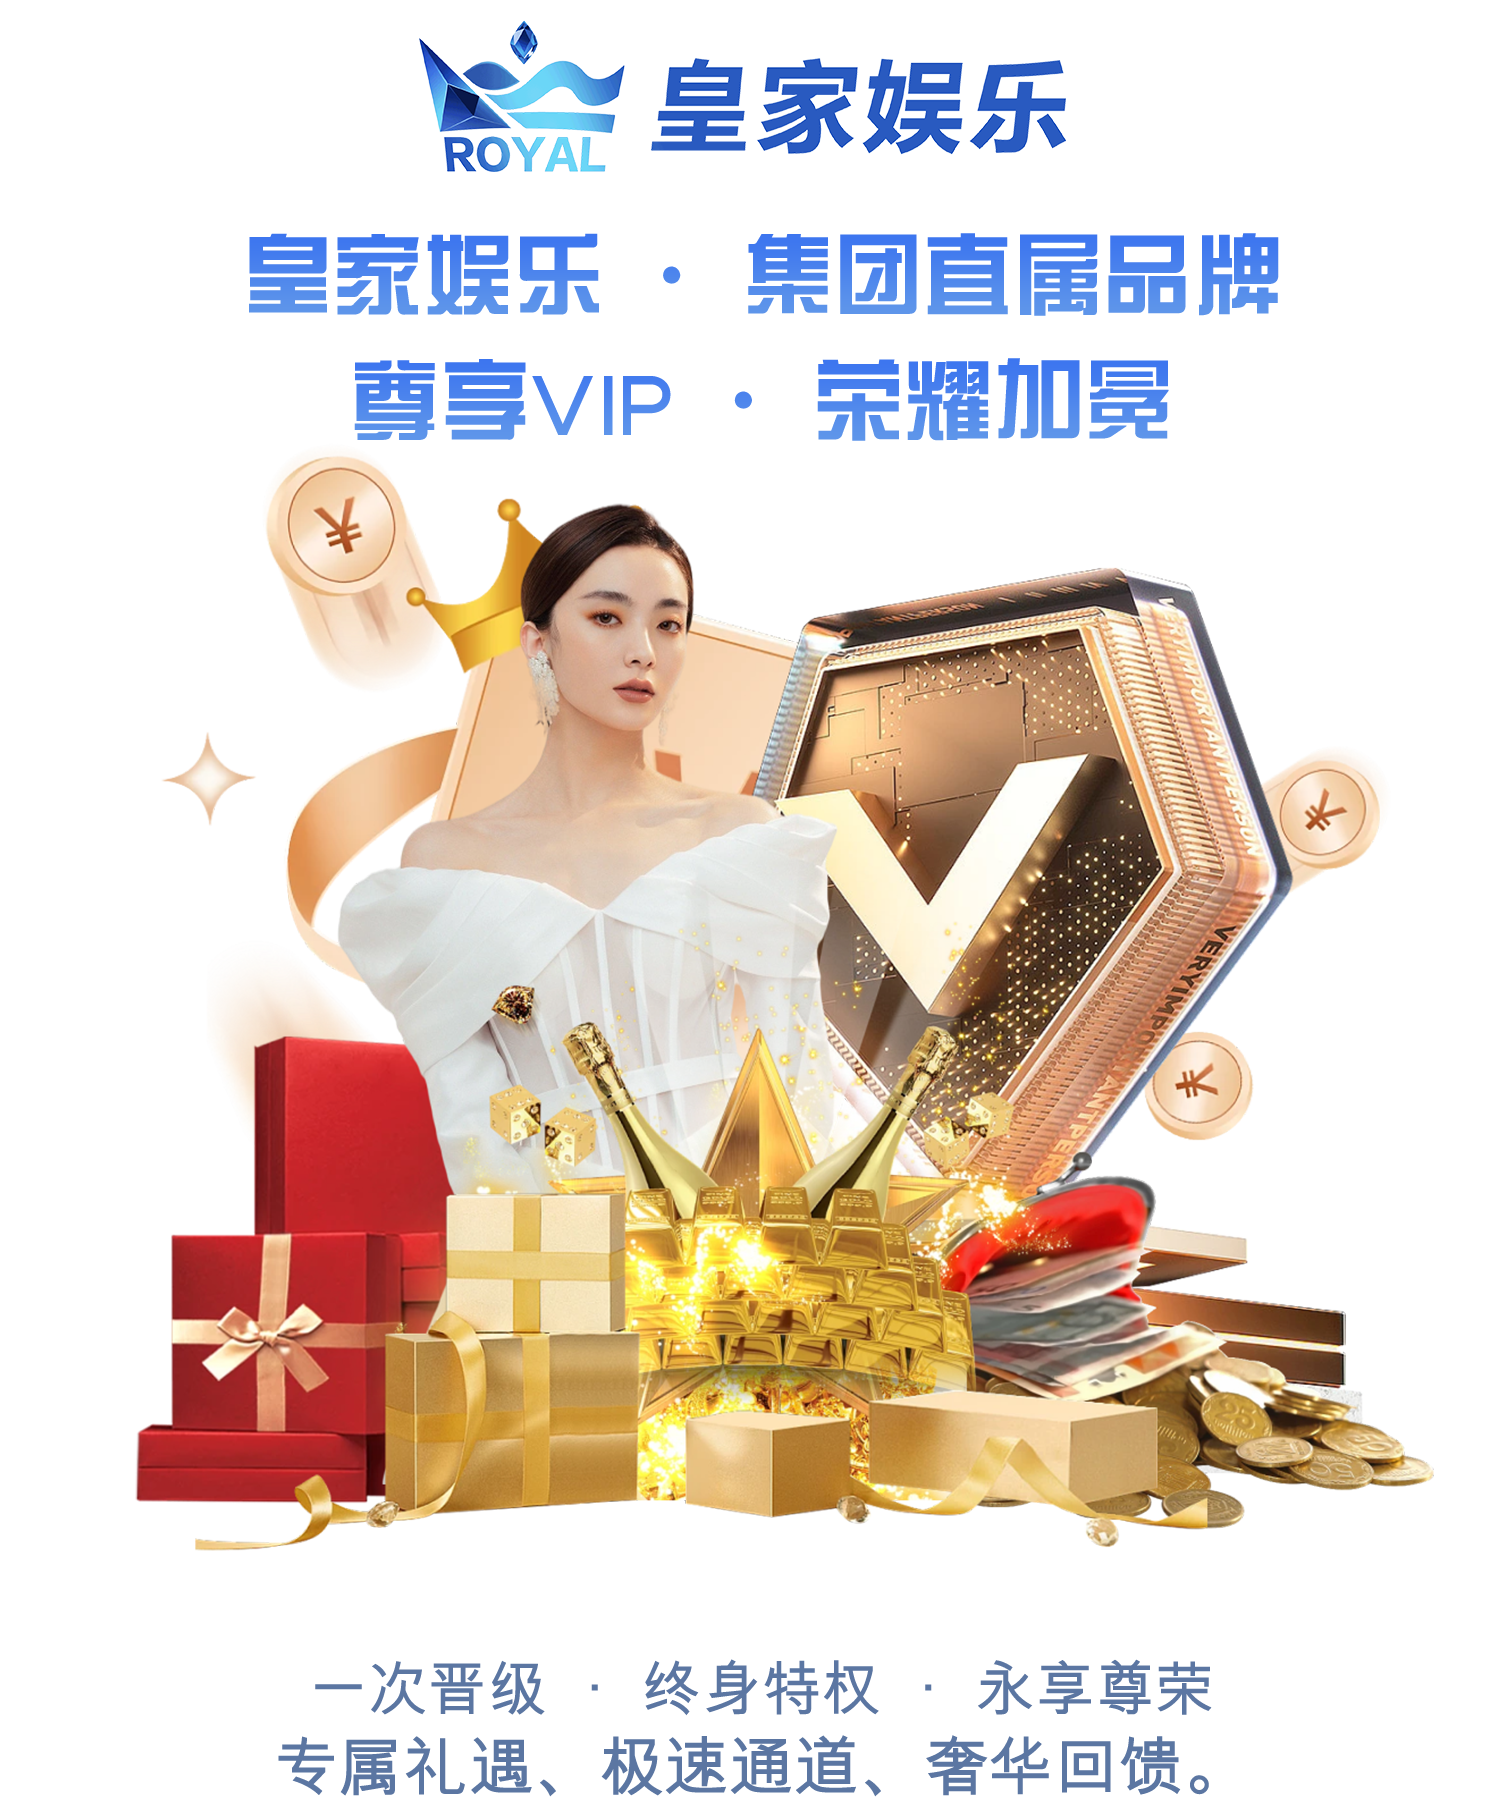
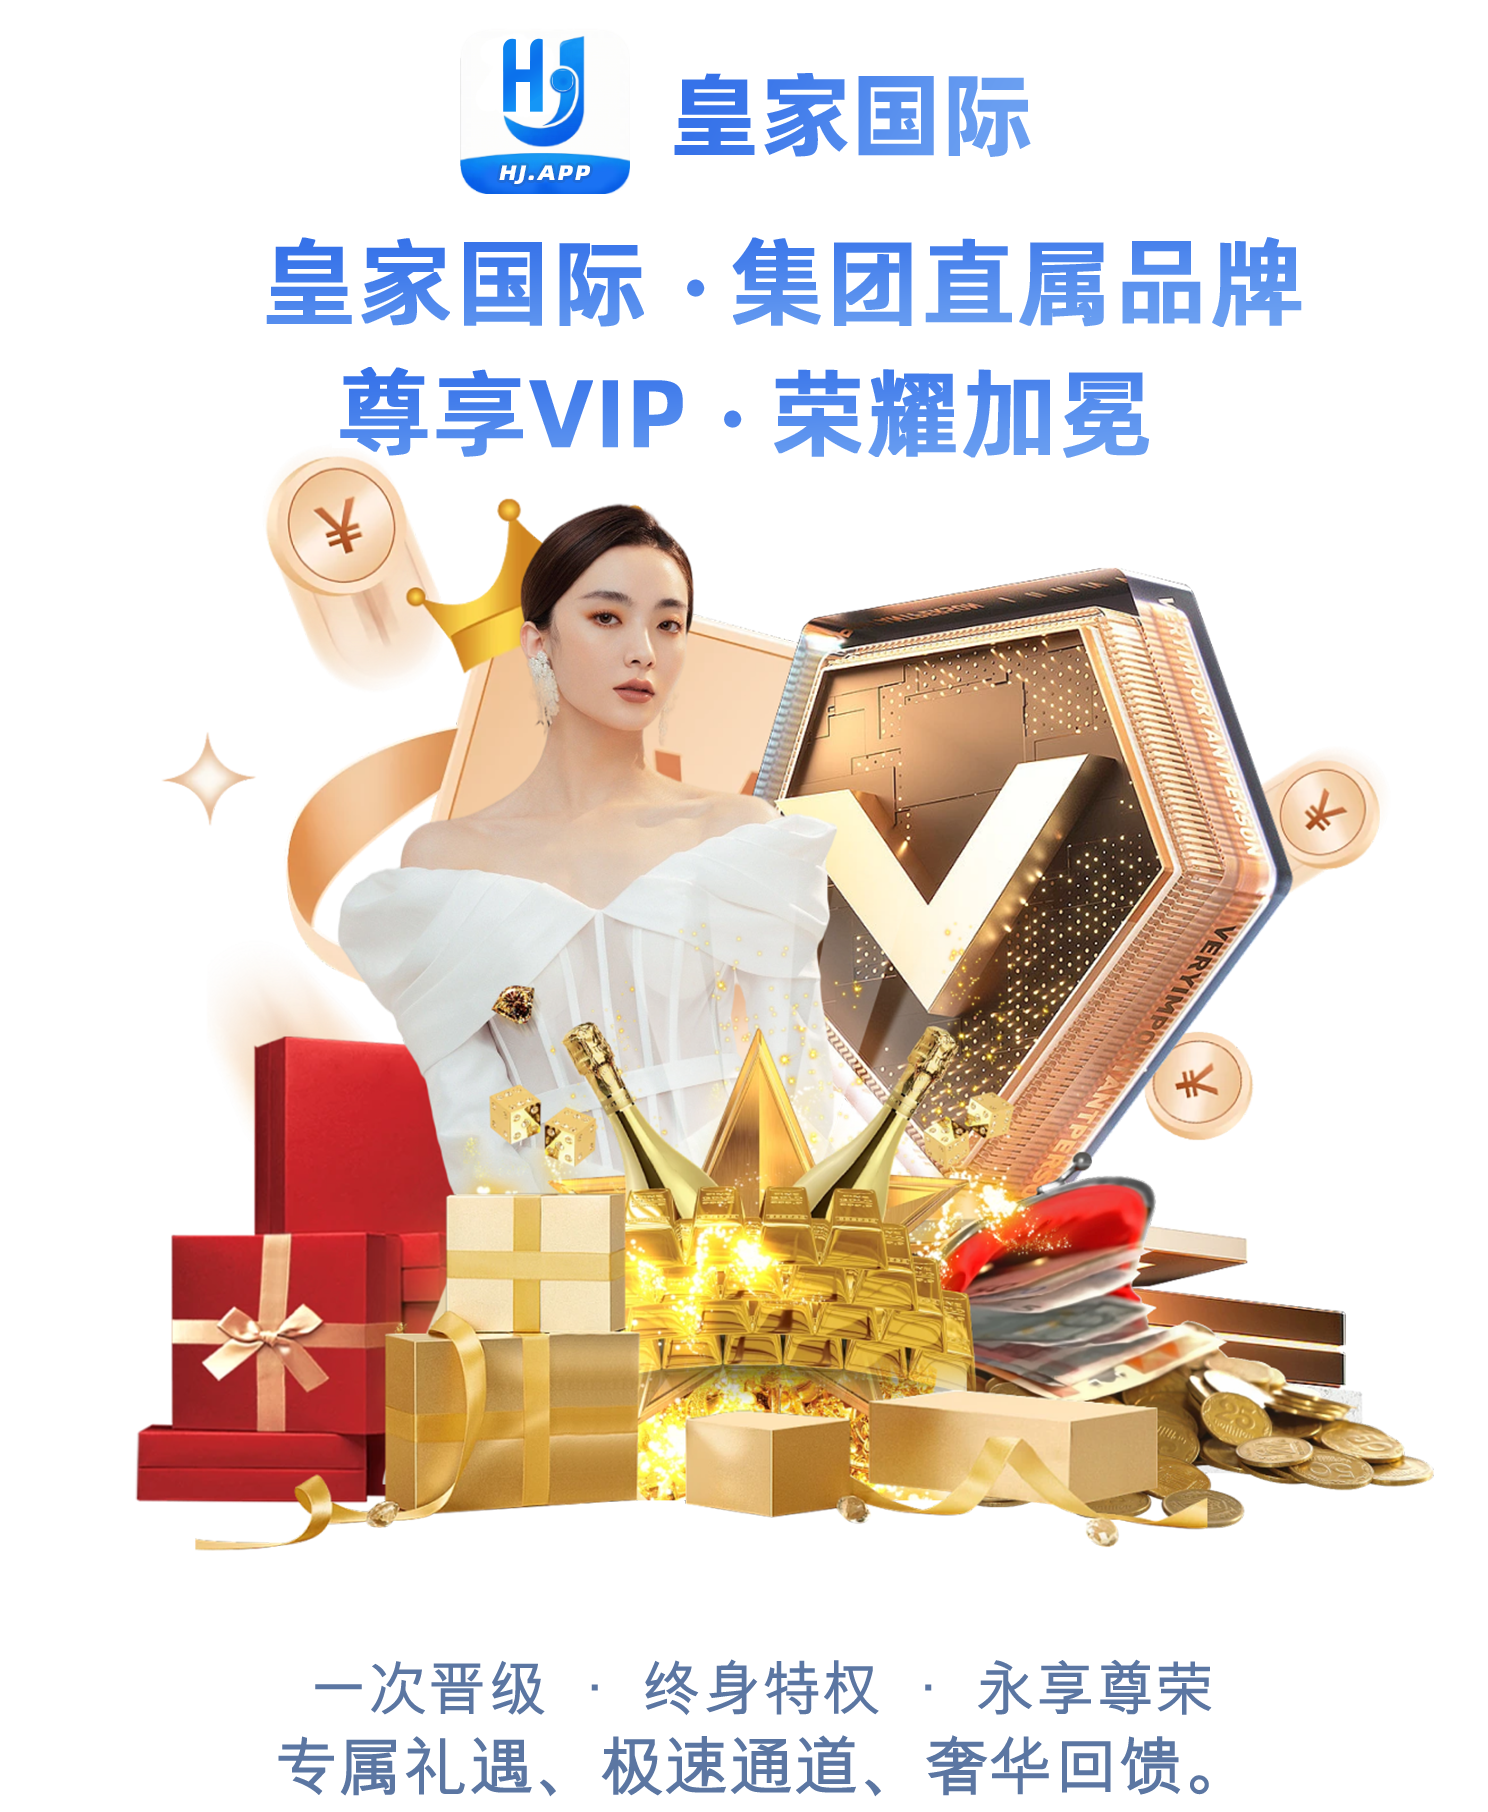
Fix

Changed region(s): [[0.1546, 0.0, 0.711, 0.2472], [0.4946, 0.1236, 0.8965, 0.2781]]

diff --git a/src/views/Home.vue b/src/views/Home.vue
@@ -29,7 +29,7 @@
                 
                 <div v-if="getPlatform() === 'web'">
                     <div class="px-3 mt-3">
-                        <v-btn size="x-large" rounded="lg" block color="primary" @click="downloadANROID">
+                        <v-btn size="x-large" rounded="lg" block color="primary" @click="downloadANDROID">
                             <v-icon class="mr-2">mdi-android</v-icon> 下载安卓版
                         </v-btn>
                     </div>
@@ -46,7 +46,7 @@
                 </div>
                 <div v-if="getPlatform() === 'android'">
                     <div class="px-3 mt-3">
-                        <v-btn size="x-large" rounded="lg" block color="primary" @click="downloadANROID">下载 APP</v-btn>
+                        <v-btn size="x-large" rounded="lg" block color="primary" @click="downloadANDROID">下载 APP</v-btn>
                     </div>
                 </div>
                 <div class="px-3 mt-3">
@@ -112,9 +112,9 @@
 
 <script setup>
 import { ref, reactive, onMounted } from 'vue';
-import Banner1 from '@/assets/banner1.png';
-import Banner2 from '@/assets/banner2.png';
-import Banner3 from '@/assets/banner3.png';
+import Banner1 from '@/assets/banner1__.png';
+import Banner2 from '@/assets/banner2__.png';
+import Banner3 from '@/assets/banner3__.png';
 import Step1 from '@/assets/step1.png';
 import Step2 from '@/assets/step2.png';
 import Step3 from '@/assets/step3.png';
@@ -136,7 +136,7 @@ const guides = ref([
     { id: 1, src: Step1 },
     { id: 2, src: Step2 },
     { id: 3, src: Step3 },
-    { id: 3, src: Step4 },
+    { id: 4, src: Step4 },
 ]);
 const draggableBtn = ref(null)
 const pos = reactive({ x: 0, y: 0 }) // initial position
@@ -258,23 +258,27 @@ function getPlatform() {
 
 const downloadIOS = () => {
     const link = document.createElement('a');
-    link.href = '/uploads/hj.mobileconfig';
-    link.download = 'huangjia.mobileconfig';
+    link.href = '/download/uploads/皇家国际.mobileconfig';
+    link.download = '皇家国际.mobileconfig';
     document.body.appendChild(link);
     link.click();
     document.body.removeChild(link);  
 }
 
-const downloadANROID = () => {
+const downloadANDROID = () => {
     const link = document.createElement('a');
-    link.href = '/uploads/hj.apk';
-    link.download = 'huangjia.apk';
+    link.href = '/download/uploads/皇家国际.apk';
+    link.download = '皇家国际.apk';
     document.body.appendChild(link);
     link.click();
     document.body.removeChild(link);  
 }
 
 const startGame = () => {
+
+    window.open('https://hj.app', '_blank');
+    return;
+
     const randomIndex = Math.floor(Math.random() * domains.value.length);
     const selectedDomain = domains.value[randomIndex];
 
@@ -304,7 +308,7 @@ const getDomains = async () => {
 }
 
 onMounted(() => {
-    getDomains();
+    // getDomains();
     const btn = draggableBtn.value
     if (btn) {
         const rect = btn.getBoundingClientRect()

diff --git a/index.html b/index.html
@@ -2,9 +2,9 @@
 <html lang="en">
   <head>
     <meta charset="UTF-8" />
-    <link rel="icon" href="%BASE_URL%favicon.ico?v=20260430" />
+    <link rel="icon" href="%BASE_URL%favicon.ico?v=20260606" />
     <meta name="viewport" content="width=device-width, initial-scale=1.0" />
-    <title>乐天国际</title>
+    <title>皇家国际</title>
   </head>
   <body>
     <div id="app"></div>

diff --git a/src/router/index.js b/src/router/index.js
@@ -2,7 +2,7 @@ import { createRouter, createWebHistory } from 'vue-router'
 
 const routes = [
     {
-        path: '/',
+        path: '/download',
         name: 'Home',
         component: () => import('../views/Home.vue'),
     }

diff --git a/vite.config.js b/vite.config.js
@@ -4,6 +4,7 @@ import path from 'path'
 
 // https://vite.dev/config/
 export default defineConfig({
+    base: '/download/',
     plugins: [vue()],
     resolve: {
         alias: {